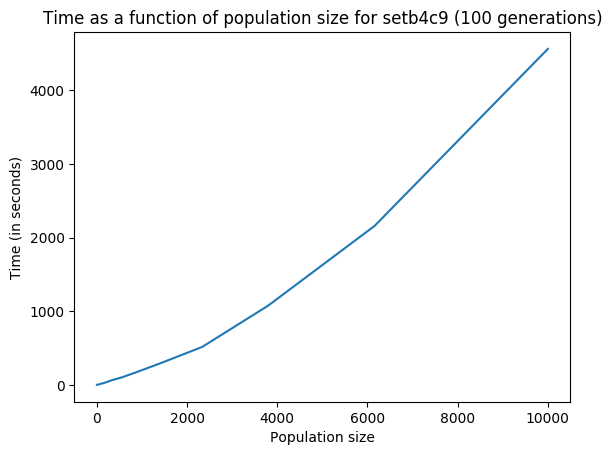
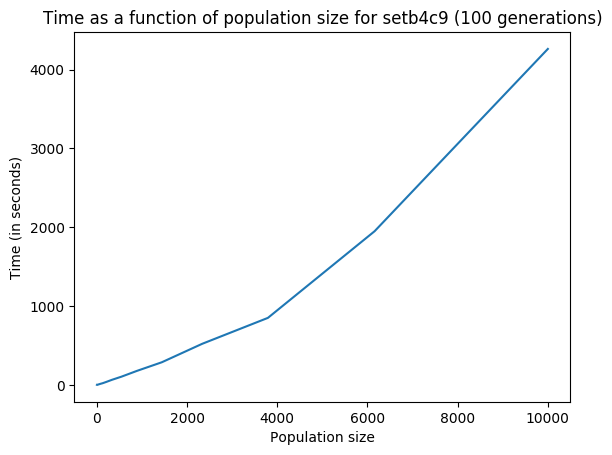
??! what the ...

diff --git a/app/drawer.py b/app/drawer.py
@@ -77,14 +77,60 @@ class Drawer:
 
 	# Plot a 2d graph
 	@staticmethod
-	def plot2d(filename, xdata, ydata, title, xlabel, ylabel):
+	def plot2d(filename, xdata, ydata, title, xlabel, ylabel, approximate=False, min_degree=2, max_degree=8):
 		import matplotlib.pyplot as plt
 		plt.clf()
 		plot = plt.subplot()
 		plot.set_title(title)
 		plot.set_xlabel(xlabel)
 		plot.set_ylabel(ylabel)
-		plot.plot(xdata, ydata)
+		plot.plot(xdata, ydata, 'o' if approximate else '-')
+		
+		if approximate:
+			import numpy as np
+			from scipy.interpolate import UnivariateSpline
+			from colorama import init
+			from termcolor import colored
+			init()
+			
+			# Compute an interval of 150 points
+			x = np.linspace(0, xdata[-1], 150)
+			
+			# Compute a spline to measure the error between the approximation and the data set
+			spline = UnivariateSpline(xdata, ydata)
+			y_spline = spline(x)
+			plot.plot(x, y_spline, 'C0')
+			
+			# Compute different polynomial approximations
+			legends = ["Original data", "Spline approximation"]
+			# Save best polynomial approximation
+			best_degree = best_coefficients = best_residual = best_y_poly = None
+			
+			# Computing different polynomial approximations
+			for degree in range(min_degree, max_degree + 1):
+				# Find a polynomial to fit the spline
+				coefficients = np.polyfit(xdata, ydata, degree)
+				poly = np.poly1d(coefficients)
+				y_poly = poly(x)
+				# Compute the residual (the error)
+				residual = np.linalg.norm(y_spline - y_poly, 2)
+				# Display current polynomial approximation residual
+				print(colored("[DRAWER]", "magenta"), "Polynomial approximation of degree", str(degree),
+					  "-> Residual = ", residual)
+				# Checking if it's a better approximation
+				if best_residual is None or residual < best_residual:
+					best_degree, best_coefficients, best_residual, best_y_poly = degree, coefficients, residual, y_poly
+					
+			# Displaying best polynomial found
+			legends.append("Approximation of degree " + str(best_degree))
+			print(colored("[DRAWER]", "magenta"), "Best approximation found is a polynomial of degree",
+				  str(best_degree))
+			print("\t", "Coefficients:", best_coefficients)
+			print("\t", "Residual:", best_residual)
+			# Plotting resulting polynomial
+			plot.plot(x, best_y_poly, '--')
+			plot.legend(legends)
+			
 		plot.autoscale()
 		plt.show()
 		if not (filename is None):

diff --git a/app/benchmarks.py b/app/benchmarks.py
@@ -13,7 +13,7 @@ import timeit
 class Benchmarks:
 	def __init__(self, path):
 		init()  # Init colorama for color display
-		self.__size = list(set(np.logspace(0, 3.5, num=20, dtype=np.int)))
+		self.__size = list(set(np.logspace(0, 4, num=20, dtype=np.int)))
 		self.__name = path.split('/')[-1].split('.')[0]
 		self.__jobs_list, self.__machines_list, self.__number_max_operations = parse(path)
 
@@ -37,7 +37,7 @@ class Benchmarks:
 		Drawer.plot2d(self.__name + "_benchmarks_population", [element[0] for element in benchmarks_population],
 					[element[2] for element in benchmarks_population],
 					"Time as a function of population size for " + self.__name + " (100 generations)",
-					"Population size", "Time (in seconds)")
+					"Population size", "Time (in seconds)", approximate=True)
 
 		return benchmarks_population
 
@@ -80,7 +80,7 @@ class Benchmarks:
 			temp_machines_list, temp_jobs_list = copy.deepcopy(self.__machines_list), copy.deepcopy(
 				self.__jobs_list)
 			s = GeneticScheduler(temp_machines_list, temp_jobs_list)
-			total_time = s.run_genetic(total_population=population, max_generation=generation, verbose=True)
+			total_time = s.run_genetic(total_population=population, max_generation=generation, verbose=False)
 			stop = timeit.default_timer()
 			print(colored("[BENCHMARKS]", "yellow"), "Done in", stop - start, "seconds")
 			benchmarks_population_and_generation.append((population, generation, stop - start, total_time))

diff --git a/app/main.py b/app/main.py
@@ -10,7 +10,10 @@ import copy
 import os
 import sys
 import timeit
+import warnings
 
+
+warnings.simplefilter('ignore', RuntimeWarning)
 
 path = "data/test.fjs" if len(sys.argv) == 1 else sys.argv[1]
 jobs_list, machines_list, number_max_operations = parse(path)
